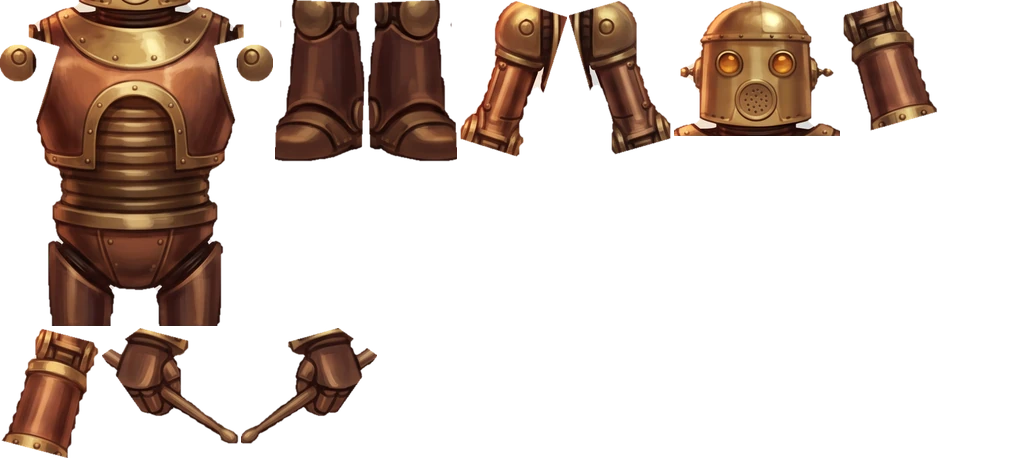
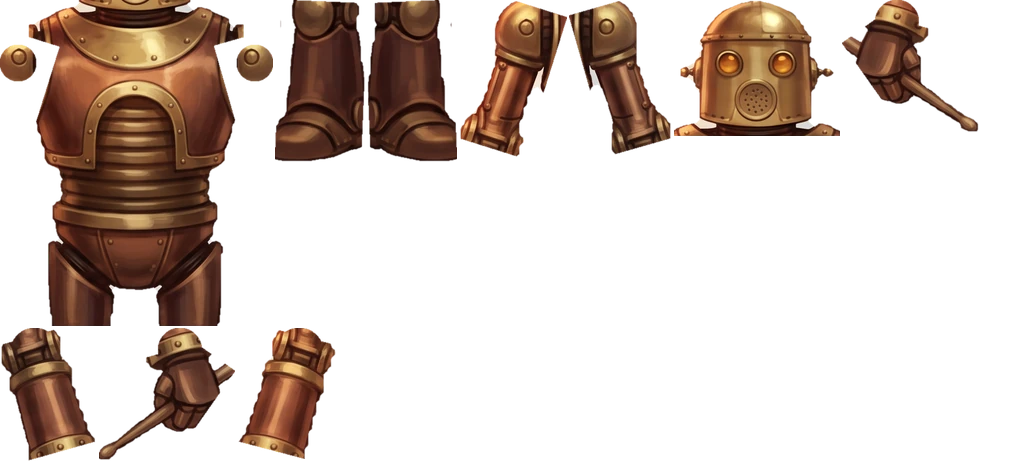
Speakeasy band art: guest saxophonist + tenor sax rig parts, drummer joint caps
Gold-brass saxophonist in the same art-deco family (Nano Banana Pro, 75 cr; scene total 225/800),
cut into rigid parts; the horn is its own mirrored part pivoting at the mouthpiece in the mouth
socket, keywork card pockets removed. Drummer wrist/elbow seams covered by joint caps.

diff --git a/scenes/art/speakeasy/robots/rig.js b/scenes/art/speakeasy/robots/rig.js
@@ -1,2 +1,2 @@
 // generated by art-src/speakeasy/robots/build.py — robot cut-out rigs (source-frame parts)
-window.SPEAK_RIG = {"pianist":{"k":0.18,"atlasScale":0.432,"anchor":[667,1462],"parts":{"seat":{"x":0,"y":0,"w":184,"h":280,"ox":453,"oy":840,"s":1.0,"px":667,"py":850,"parent":null},"upL":{"x":582,"y":0,"w":99,"h":109,"ox":305,"oy":503,"s":1.0,"px":482,"py":540,"parent":"torso"},"foL":{"x":784,"y":0,"w":97,"h":73,"ox":153,"oy":674,"s":1.0,"px":335,"py":715,"parent":"upL"},"handL":{"x":0,"y":282,"w":93,"h":71,"ox":0,"oy":793,"s":1.0,"px":160,"py":805,"parent":"foL"},"upR":{"x":683,"y":0,"w":99,"h":108,"ox":800,"oy":504,"s":1.0,"px":852,"py":540,"parent":"torso"},"foR":{"x":883,"y":0,"w":97,"h":72,"ox":956,"oy":678,"s":1.0,"px":998,"py":715,"parent":"upR"},"handR":{"x":95,"y":282,"w":93,"h":70,"ox":1119,"oy":794,"s":1.0,"px":1172,"py":805,"parent":"foR"},"torso":{"x":292,"y":0,"w":199,"h":205,"ox":440,"oy":430,"s":1.0,"px":667,"py":850,"parent":"seat"},"head":{"x":493,"y":0,"w":87,"h":200,"ox":564,"oy":0,"s":1.0,"px":667,"py":448,"parent":"torso"},"headSide":{"x":186,"y":0,"w":104,"h":240,"ox":0,"oy":0,"s":0.5,"px":180,"py":1050,"parent":"torso","attach":[667,448]}},"order":["seat","upL","foL","handL","upR","foR","handR","torso","head","headSide"],"eyes":{"headSide":[[440,670]]}},"drummer":{"k":0.256,"atlasScale":0.6144,"anchor":[405,650],"parts":{"shinL":{"x":275,"y":0,"w":90,"h":162,"ox":231,"oy":760,"s":1.0,"px":310,"py":790,"parent":"torso"},"shinR":{"x":367,"y":0,"w":90,"h":162,"ox":429,"oy":760,"s":1.0,"px":495,"py":790,"parent":"torso"},"torso":{"x":0,"y":0,"w":273,"h":326,"ox":183,"oy":190,"s":1.0,"px":405,"py":520,"parent":null},"head":{"x":674,"y":0,"w":166,"h":136,"ox":270,"oy":0,"s":1.0,"px":405,"py":205,"parent":"torso"},"upL":{"x":459,"y":0,"w":108,"h":157,"ox":104,"oy":238,"s":1.0,"px":205,"py":290,"parent":"torso"},"foL":{"x":0,"y":328,"w":100,"h":130,"ox":49,"oy":428,"s":1.0,"px":150,"py":465,"parent":"upL"},"handL":{"x":102,"y":328,"w":137,"h":117,"ox":19,"oy":618,"s":1.0,"px":108,"py":625,"parent":"foL"},"upR":{"x":569,"y":0,"w":103,"h":155,"ox":532,"oy":239,"s":1.0,"px":605,"py":290,"parent":"torso"},"foR":{"x":842,"y":0,"w":97,"h":131,"ox":599,"oy":428,"s":1.0,"px":655,"py":465,"parent":"upR"},"handR":{"x":241,"y":328,"w":136,"h":117,"ox":569,"oy":618,"s":1.0,"px":700,"py":625,"parent":"foR"}},"order":["shinL","shinR","torso","head","upL","foL","handL","upR","foR","handR"],"tips":{"handL":[232,800],"handR":[577,800]},"eyes":{"head":[[362,105],[445,105]]}},"bassist":{"k":0.24,"atlasScale":0.576,"anchor":[236,1200],"parts":{"legs":{"x":0,"y":0,"w":169,"h":395,"ox":90,"oy":520,"s":1.0,"px":236,"py":525,"parent":null},"torso":{"x":270,"y":0,"w":247,"h":207,"ox":19,"oy":200,"s":1.0,"px":236,"py":525,"parent":"legs"},"head":{"x":519,"y":0,"w":112,"h":132,"ox":136,"oy":2,"s":1.0,"px":236,"py":215,"parent":"torso"},"upL":{"x":633,"y":0,"w":65,"h":107,"ox":12,"oy":335,"s":1.0,"px":72,"py":352,"parent":"torso"},"foL":{"x":171,"y":0,"w":48,"h":225,"ox":0,"oy":475,"s":1.0,"px":58,"py":512,"parent":"upL"},"upR":{"x":700,"y":0,"w":62,"h":107,"ox":350,"oy":336,"s":1.0,"px":402,"py":352,"parent":"torso"},"foR":{"x":221,"y":0,"w":47,"h":224,"ox":388,"oy":476,"s":1.0,"px":416,"py":512,"parent":"upR"}},"order":["legs","torso","head","upL","foL","upR","foR"],"tips":{"foL":[44,800],"foR":[430,800]},"eyes":{"head":[[200,101],[270,101]]}},"singer":{"k":0.255,"atlasScale":0.612,"anchor":[305,1062],"parts":{"legs":{"x":0,"y":0,"w":125,"h":375,"ox":204,"oy":455,"s":1.0,"px":305,"py":470,"parent":null},"torso":{"x":127,"y":0,"w":128,"h":187,"ox":201,"oy":215,"s":1.0,"px":305,"py":470,"parent":"legs"},"head":{"x":257,"y":0,"w":110,"h":147,"ox":216,"oy":0,"s":1.0,"px":305,"py":225,"parent":"torso"},"upL":{"x":611,"y":0,"w":75,"h":115,"ox":142,"oy":251,"s":1.0,"px":222,"py":268,"parent":"torso"},"foL":{"x":490,"y":0,"w":119,"h":140,"ox":0,"oy":394,"s":1.0,"px":168,"py":425,"parent":"upL"},"upR":{"x":688,"y":0,"w":76,"h":113,"ox":345,"oy":252,"s":1.0,"px":388,"py":268,"parent":"torso"},"foR":{"x":369,"y":0,"w":119,"h":143,"ox":420,"oy":392,"s":1.0,"px":440,"py":425,"parent":"upR"}},"order":["legs","torso","head","upL","foL","upR","foR"],"tips":{"foL":[70,585],"foR":[545,585]},"eyes":{"head":[[307,182]]}}};
+window.SPEAK_RIG = {"pianist":{"k":0.18,"atlasScale":0.432,"anchor":[667,1462],"parts":{"seat":{"x":0,"y":0,"w":184,"h":280,"ox":453,"oy":840,"s":1.0,"px":667,"py":850,"parent":null},"upL":{"x":582,"y":0,"w":99,"h":109,"ox":305,"oy":503,"s":1.0,"px":482,"py":540,"parent":"torso"},"foL":{"x":784,"y":0,"w":97,"h":73,"ox":153,"oy":674,"s":1.0,"px":335,"py":715,"parent":"upL"},"handL":{"x":0,"y":282,"w":93,"h":71,"ox":0,"oy":793,"s":1.0,"px":160,"py":805,"parent":"foL"},"upR":{"x":683,"y":0,"w":99,"h":108,"ox":800,"oy":504,"s":1.0,"px":852,"py":540,"parent":"torso"},"foR":{"x":883,"y":0,"w":97,"h":72,"ox":956,"oy":678,"s":1.0,"px":998,"py":715,"parent":"upR"},"handR":{"x":95,"y":282,"w":93,"h":70,"ox":1119,"oy":794,"s":1.0,"px":1172,"py":805,"parent":"foR"},"torso":{"x":292,"y":0,"w":199,"h":205,"ox":440,"oy":430,"s":1.0,"px":667,"py":850,"parent":"seat"},"head":{"x":493,"y":0,"w":87,"h":200,"ox":564,"oy":0,"s":1.0,"px":667,"py":448,"parent":"torso"},"headSide":{"x":186,"y":0,"w":104,"h":240,"ox":0,"oy":0,"s":0.5,"px":180,"py":1050,"parent":"torso","attach":[667,448]}},"order":["seat","upL","foL","handL","upR","foR","handR","torso","head","headSide"],"eyes":{"headSide":[[440,670]]}},"drummer":{"k":0.256,"atlasScale":0.6144,"anchor":[405,650],"parts":{"shinL":{"x":275,"y":0,"w":90,"h":162,"ox":231,"oy":760,"s":1.0,"px":310,"py":790,"parent":"torso"},"shinR":{"x":367,"y":0,"w":90,"h":162,"ox":429,"oy":760,"s":1.0,"px":495,"py":790,"parent":"torso"},"torso":{"x":0,"y":0,"w":273,"h":326,"ox":183,"oy":190,"s":1.0,"px":405,"py":520,"parent":null},"head":{"x":674,"y":0,"w":166,"h":136,"ox":270,"oy":0,"s":1.0,"px":405,"py":205,"parent":"torso"},"upL":{"x":459,"y":0,"w":108,"h":157,"ox":104,"oy":238,"s":1.0,"px":205,"py":290,"parent":"torso"},"foL":{"x":237,"y":328,"w":100,"h":131,"ox":49,"oy":426,"s":1.0,"px":150,"py":465,"parent":"upL"},"handL":{"x":842,"y":0,"w":137,"h":133,"ox":19,"oy":593,"s":1.0,"px":108,"py":625,"parent":"foL"},"upR":{"x":569,"y":0,"w":103,"h":155,"ox":532,"oy":239,"s":1.0,"px":605,"py":290,"parent":"torso"},"foR":{"x":0,"y":328,"w":97,"h":133,"ox":599,"oy":426,"s":1.0,"px":655,"py":465,"parent":"upR"},"handR":{"x":99,"y":328,"w":136,"h":133,"ox":569,"oy":593,"s":1.0,"px":700,"py":625,"parent":"foR"}},"order":["shinL","shinR","torso","head","upL","foL","handL","upR","foR","handR"],"tips":{"handL":[232,800],"handR":[577,800]},"eyes":{"head":[[362,105],[445,105]]}},"bassist":{"k":0.24,"atlasScale":0.576,"anchor":[236,1200],"parts":{"legs":{"x":0,"y":0,"w":169,"h":395,"ox":90,"oy":520,"s":1.0,"px":236,"py":525,"parent":null},"torso":{"x":270,"y":0,"w":247,"h":207,"ox":19,"oy":200,"s":1.0,"px":236,"py":525,"parent":"legs"},"head":{"x":519,"y":0,"w":112,"h":132,"ox":136,"oy":2,"s":1.0,"px":236,"py":215,"parent":"torso"},"upL":{"x":633,"y":0,"w":65,"h":107,"ox":12,"oy":335,"s":1.0,"px":72,"py":352,"parent":"torso"},"foL":{"x":171,"y":0,"w":48,"h":225,"ox":0,"oy":475,"s":1.0,"px":58,"py":512,"parent":"upL"},"upR":{"x":700,"y":0,"w":62,"h":107,"ox":350,"oy":336,"s":1.0,"px":402,"py":352,"parent":"torso"},"foR":{"x":221,"y":0,"w":47,"h":224,"ox":388,"oy":476,"s":1.0,"px":416,"py":512,"parent":"upR"}},"order":["legs","torso","head","upL","foL","upR","foR"],"tips":{"foL":[44,800],"foR":[430,800]},"eyes":{"head":[[200,101],[270,101]]}},"singer":{"k":0.255,"atlasScale":0.612,"anchor":[305,1062],"parts":{"legs":{"x":0,"y":0,"w":125,"h":375,"ox":204,"oy":455,"s":1.0,"px":305,"py":470,"parent":null},"torso":{"x":127,"y":0,"w":128,"h":187,"ox":201,"oy":215,"s":1.0,"px":305,"py":470,"parent":"legs"},"head":{"x":257,"y":0,"w":110,"h":147,"ox":216,"oy":0,"s":1.0,"px":305,"py":225,"parent":"torso"},"upL":{"x":611,"y":0,"w":75,"h":115,"ox":142,"oy":251,"s":1.0,"px":222,"py":268,"parent":"torso"},"foL":{"x":490,"y":0,"w":119,"h":140,"ox":0,"oy":394,"s":1.0,"px":168,"py":425,"parent":"upL"},"upR":{"x":688,"y":0,"w":76,"h":113,"ox":345,"oy":252,"s":1.0,"px":388,"py":268,"parent":"torso"},"foR":{"x":369,"y":0,"w":119,"h":143,"ox":420,"oy":392,"s":1.0,"px":440,"py":425,"parent":"upR"}},"order":["legs","torso","head","upL","foL","upR","foR"],"tips":{"foL":[70,585],"foR":[545,585]},"eyes":{"head":[[307,182]]}},"sax":{"k":0.208,"atlasScale":0.4992,"anchor":[527,1425],"parts":{"legs":{"x":0,"y":0,"w":170,"h":375,"ox":360,"oy":680,"s":1.0,"px":527,"py":690,"parent":null},"torso":{"x":350,"y":0,"w":215,"h":215,"ox":312,"oy":290,"s":1.0,"px":527,"py":690,"parent":"legs"},"head":{"x":874,"y":0,"w":110,"h":156,"ox":420,"oy":0,"s":1.0,"px":527,"py":305,"parent":"torso"},"upL":{"x":0,"y":377,"w":100,"h":143,"ox":210,"oy":323,"s":1.0,"px":345,"py":352,"parent":"torso"},"upR":{"x":102,"y":377,"w":101,"h":143,"ox":644,"oy":323,"s":1.0,"px":708,"py":352,"parent":"torso"},"foL":{"x":720,"y":0,"w":152,"h":195,"ox":3,"oy":534,"s":1.0,"px":255,"py":585,"parent":"upL"},"foR":{"x":567,"y":0,"w":151,"h":196,"ox":753,"oy":532,"s":1.0,"px":800,"py":585,"parent":"upR"},"horn":{"x":172,"y":0,"w":176,"h":313,"ox":0,"oy":0,"s":0.55,"px":635,"py":75,"parent":"torso","attach":[527,284]}},"order":["legs","torso","head","upL","upR","horn","foL","foR"],"tips":{"foL":[95,850],"foR":[965,850]},"eyes":{"head":[[487,158],[567,158]]},"keys":{"upper":[300,400],"lower":[292,830]}}};

diff --git a/art-src/speakeasy/robots/build.py b/art-src/speakeasy/robots/build.py
@@ -60,11 +60,11 @@ ROBOTS = {
       ['torso', None,    [405, 520], [('box', (230, 190, 580, 720))], ['upL', 'upR'], [[212, 292, 30], [598, 292, 30]]],
       ['head',  'torso', [405, 205], [('box', (270, 0, 540, 222))], [], []],
       ['upL',   'torso', [205, 290], [band((205, 290), (150, 465), 64, -0.25, 1.06)], [], []],
-      ['foL',   'upL',   [150, 465], [band((150, 465), (108, 625), 62, -0.16, 1.0)], [], []],
-      ['handL', 'foL',   [108, 625], [band((108, 625), (232, 800), 95, -0.1, 1.08)], ['foL', ('poly', [(242, 540), (600, 540), (600, 1024), (242, 1024)])], []],
+      ['foL',   'upL',   [150, 465], [band((150, 465), (108, 625), 62, -0.16, 1.0)], [], [[150, 465, 40]]],
+      ['handL', 'foL',   [108, 625], [band((108, 625), (232, 800), 95, -0.1, 1.08)], ['foL', ('poly', [(242, 540), (600, 540), (600, 1024), (242, 1024)])], [[108, 628, 36]]],
       ['upR',   'torso', [605, 290], [band((605, 290), (655, 465), 64, -0.25, 1.06)], [], []],
-      ['foR',   'upR',   [655, 465], [band((655, 465), (700, 625), 62, -0.16, 1.0)], [], []],
-      ['handR', 'foR',   [700, 625], [band((700, 625), (577, 800), 95, -0.1, 1.08)], ['foR', ('poly', [(210, 540), (568, 540), (568, 1024), (210, 1024)])], []],
+      ['foR',   'upR',   [655, 465], [band((655, 465), (700, 625), 62, -0.16, 1.0)], [], [[655, 465, 40]]],
+      ['handR', 'foR',   [700, 625], [band((700, 625), (577, 800), 95, -0.1, 1.08)], ['foR', ('poly', [(210, 540), (568, 540), (568, 1024), (210, 1024)])], [[700, 628, 36]]],
     ],
     'tips': {'handL': [232, 800], 'handR': [577, 800]},   # stick tips (rest pose)
     'eyes': {'head': [[362, 105], [445, 105]]},
@@ -99,6 +99,25 @@ ROBOTS = {
     ],
     'tips': {'foL': [70, 585], 'foR': [545, 585]},
     'eyes': {'head': [[307, 182]]},
+  },
+  # ── the guest saxophonist (joins some songs on the stage lift), front view; the horn is its own part ──
+  'sax': {
+    'src': 'saxophonist.webp', 'k': 0.208, 'anchor': [527, 1425],
+    'parts': [
+      ['legs',  None,    [527, 690], [('box', (360, 680, 700, 1431))], ['upL', 'foL', 'upR', 'foR'], []],
+      ['torso', 'legs',  [527, 690], [('box', (290, 290, 770, 720))], ['upL', 'upR', 'foL', 'foR'], [[345, 352, 34], [708, 352, 34]]],
+      ['head',  'torso', [527, 305], [('box', (420, 0, 640, 312))], [], []],
+      ['upL',   'torso', [345, 352], [band((345, 352), (255, 585), 58, -0.12, 1.04)], [], []],
+      ['upR',   'torso', [708, 352], [band((708, 352), (800, 585), 58, -0.12, 1.04)], [], []],
+      ['foL',   'upL',   [255, 585], [band((255, 585), (60, 900), 72, -0.1, 1.08)], [], [[255, 585, 34]]],
+      ['foR',   'upR',   [800, 585], [band((800, 585), (1000, 900), 72, -0.1, 1.08)], [], [[800, 585, 34]]],
+    ],
+    # the horn: mirrored so the body hangs at the player's right (viewer's left); pivot = mouthpiece tip,
+    # attached at the mouth socket; drawn between the upper arms and the forearms (hands hold it)
+    'extra': {'horn': {'src': 'sax-horn.webp', 'flip': True, 'scale': 0.55, 'pivot': [5, 75], 'attach': [527, 284], 'parent': 'torso', 'before': 'foL', 'pockets': True}},
+    'tips': {'foL': [95, 850], 'foR': [965, 850]},
+    'keys': {'upper': [300, 400], 'lower': [292, 830]},   # hand holds on the horn (its own, mirrored frame)
+    'eyes': {'head': [[487, 158], [567, 158]]},
   },
 }
 
@@ -177,22 +196,29 @@ def build(name, spec):
         pieces.append((pn, parent, pivot, (x0, y0), crop))
     for en, e in spec.get('extra', {}).items():
         im = load(os.path.join(CUT, e['src']))
+        if e.get('pockets'):
+            neu = (np.abs(im[..., 0] - im[..., 1]) < 10) & (np.abs(im[..., 1] - im[..., 2]) < 10) & (im[..., :3].mean(2) > 160) & (im[..., 3] > 0)
+            lab, n = nd.label(neu)
+            if n:
+                sz = nd.sum(np.ones(lab.shape), lab, range(1, n + 1))
+                im[np.isin(lab, np.where(sz >= 25)[0] + 1), 3] = 0
         im = defringe(im)
         if e.get('flip'): im = im[:, ::-1].copy()
         pv = list(e['pivot'])
         if e.get('flip'): pv[0] = im.shape[1] - pv[0]
-        pieces.append((en, 'torso', pv, (0, 0), im, e['scale'], e['attach']))
+        pieces.append((en, e.get('parent', 'torso'), pv, (0, 0), im, e['scale'], e['attach'], e.get('before')))
     # pack (shelf) at atlas scale
     imgs = []
     for p in pieces:
         pn, parent, pivot, (ox, oy), crop = p[:5]
         es = p[5] if len(p) > 5 else 1.0
         att = p[6] if len(p) > 6 else None
+        before = p[7] if len(p) > 7 else None
         s = scale * es
         pim = Image.fromarray(np.clip(crop, 0, 255).astype(np.uint8), 'RGBA')
         tw, th = max(1, round(pim.width * s)), max(1, round(pim.height * s))
         pim = pim.resize((tw, th), Image.LANCZOS)
-        imgs.append((pn, parent, pivot, ox, oy, es, pim, att))
+        imgs.append((pn, parent, pivot, ox, oy, es, pim, att, before))
     W = 1024 if max(i[6].width for i in imgs) < 1000 else 2048
     x = y = rowh = 0; pos = {}
     for it in sorted(imgs, key=lambda i: -i[6].height):
@@ -201,13 +227,16 @@ def build(name, spec):
         pos[it[0]] = (x, y); x += im.width + 2; rowh = max(rowh, im.height)
     H = y + rowh
     atlas = Image.new('RGBA', (W, H), (0, 0, 0, 0))
-    meta = {'k': spec['k'], 'atlasScale': scale, 'anchor': spec['anchor'], 'parts': {}, 'order': [i[0] for i in imgs]}
-    for pn, parent, pivot, ox, oy, es, im, att in imgs:
+    order = [i[0] for i in imgs if not i[8]]
+    for i in imgs:
+        if i[8]: order.insert(order.index(i[8]), i[0])
+    meta = {'k': spec['k'], 'atlasScale': scale, 'anchor': spec['anchor'], 'parts': {}, 'order': order}
+    for pn, parent, pivot, ox, oy, es, im, att, before in imgs:
         ax, ay = pos[pn]; atlas.paste(im, (ax, ay))
         meta['parts'][pn] = {'x': ax, 'y': ay, 'w': im.width, 'h': im.height, 'ox': int(ox), 'oy': int(oy), 's': es,
                              'px': pivot[0], 'py': pivot[1], 'parent': parent}
         if att: meta['parts'][pn]['attach'] = att
-    for k2 in ('tips', 'eyes'):
+    for k2 in ('tips', 'eyes', 'keys'):
         if k2 in spec: meta[k2] = spec[k2]
     os.makedirs(OUT, exist_ok=True)
     atlas.save(os.path.join(OUT, name + '.webp'), 'WEBP', quality=90, method=6)

diff --git a/art-src/speakeasy/robots/README.md b/art-src/speakeasy/robots/README.md
@@ -15,7 +15,8 @@ generation (commercial use permitted for the account's generations); no third-pa
 | --- | --- | --- |
 | `concept-lineup.webp` | four robots, front A-pose, flat grey card; style ref = a crop of the live stage (night) | 75 |
 | `pianist-rear.webp` | the pianist seen from behind on its stool + its head in profile; refs = pianist crop + stage | 75 |
-Total: **150 credits** (budget 800). `simulate_cost` was run before each call.
+| `saxophonist-sheet.webp` | guest saxophonist (front A-pose) + a tenor saxophone alone; refs = band lineup + stage | 75 |
+Total: **225 credits** (budget 800). `simulate_cost` was run before each call.
 
 ### Prompt — concept-lineup.webp (style reference: the scene's stage crop)
 > Character design lineup of four original 1920s art-deco automaton robot jazz musicians, painted in the same warm
@@ -48,9 +49,24 @@ Total: **150 credits** (budget 800). `simulate_cost` was run before each call.
 > shadows, no text, no piano, no people.
 (The profile came out facing left; `build.py` mirrors it.)
 
+### Prompt — saxophonist-sheet.webp (refs: the band lineup + the stage crop)
+> Character sheet of a fifth robot for the same art-deco automaton jazz band as the first reference image (same family:
+> 1920s Metropolis-era futurism, polished brass, gold and dark enamel, visible ball joints, glowing amber eyes), painted
+> in the same warm painterly storybook illustration style and lighting as the references, elegant and premium, NOT cute,
+> NOT toy-like. The saxophonist: a tall slim robot in polished gold-brass with dark bronze enamel panels and a stepped
+> deco chest grille, a rounded helmet head with two small round glowing amber eyes and a small round brass mouthpiece
+> socket for a mouth, a narrow gold crest. LEFT HALF: the robot alone, front view facing the viewer, standing straight in
+> a neutral A-pose, arms held away from the body with a clear gap, elbows straight, hands relaxed and slightly curled as
+> if ready to hold something, legs slightly apart, full body from head to feet. RIGHT HALF, well separated and not
+> touching the robot: a curved golden tenor saxophone ALONE, standing upright, seen from the front with the bell curving
+> up and to the right, mother-of-pearl key touches, gold lacquer, the neck and mouthpiece at the top; no hands, no strap.
+> Even soft warm key light from the upper left. Perfectly flat uniform plain light grey background (#e6e6e6), no floor,
+> no cast shadows, no text, no labels, no other instruments, no people.
+(The horn is mirrored by `build.py` so its body hangs at the player's right; grey card trapped in the keywork is removed.)
+
 ## Cutting
 1. `swift tools/cutout.swift <sheet> <dir> <prefix>` (Vision subject lifting) → `cut/*.png`, stored as lossless WebP
-   (`drummer`, `bassist`, `singer`, `pianist-front` from the lineup; `pianist-rear`, `pianist-side`).
+   (`drummer`, `bassist`, `singer`, `pianist-front` from the lineup; `pianist-rear`, `pianist-side`; `saxophonist`, `sax-horn`).
 2. `python3 build.py` → rigid parts by joint bands/boxes in each figure's own frame (see the docstring), pale card
    remnants removed at the silhouette, 2 px edge pull + colour bleed (no grey halo on the dark stage), packed at
    2.4 px per world unit. A part drawn with zero rotation lands where it was cut, so the rest pose IS the painting.
